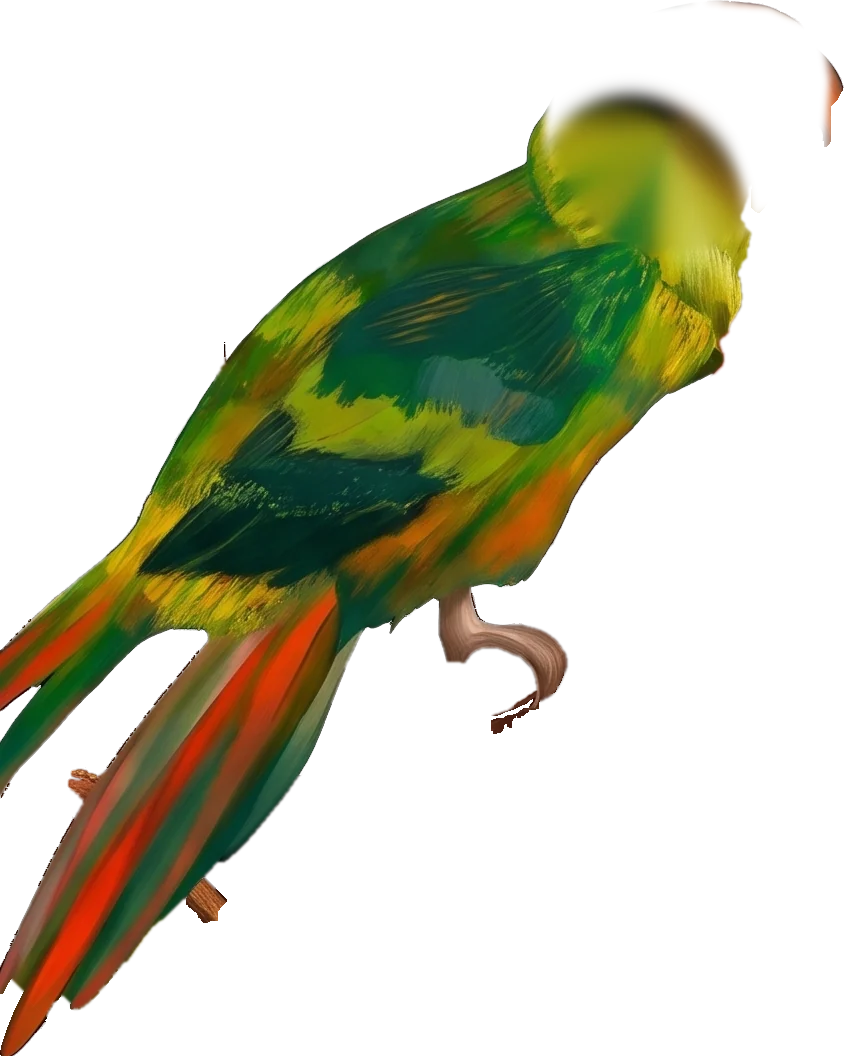
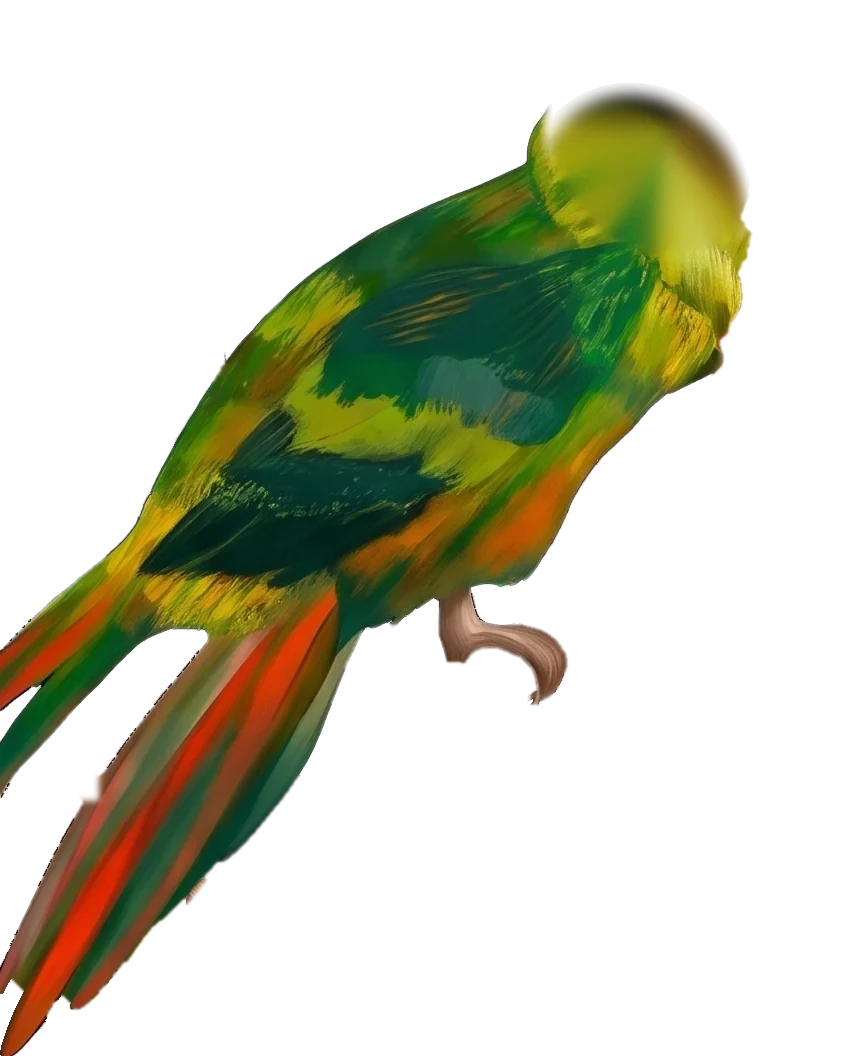
refactor: adjust opening scene layout coordinates and add parrot rigging script

diff --git a/scripts/parrot-rig.py b/scripts/parrot-rig.py
@@ -1,0 +1,77 @@
+"""
+Làm sạch rig con vẹt của màn mở thiệp (public/opening/parrot-head.webp,
+parrot-body.webp) theo layer 7 của bản Canva (scripts/intro-src/7.png).
+
+Rig gốc cắt từ bức tranh cũ nên có lỗi: mảnh đầu bị cắt thẳng ở mép phải (mất
+chóp mỏ), thân còn dính một mảnh mỏ thừa (lộ ra thành "mỏ đôi" khi đầu quay)
+và vài mẩu cành đậu bay theo chim. Script đọc bản gốc từ git (commit d492433)
+nên chạy lại bao nhiêu lần cũng ra cùng kết quả:
+
+    python3 scripts/parrot-rig.py
+
+Layer 7 khớp với hệ toạ độ của rig ở tỉ lệ 2.22, gốc (-189, 3977) — đo bằng cách
+so màu, sai số trung bình ~8/255.
+"""
+import io
+import subprocess
+from pathlib import Path
+from PIL import Image, ImageChops, ImageDraw, ImageFilter
+
+ROOT = Path(__file__).resolve().parent.parent
+OUT = ROOT / "public/opening"
+ORIGIN_COMMIT = "d492433"
+
+SCALE, OX, OY = 2.22, -189, 3977
+HEAD = (528, 0, 316, 281)  # x, y, w, h trong hệ toạ độ thân — khớp bird.head.rect
+
+
+def original(name):
+    data = subprocess.run(
+        ["git", "show", f"{ORIGIN_COMMIT}:public/opening/{name}.webp"],
+        cwd=ROOT, capture_output=True, check=True,
+    ).stdout
+    return Image.open(io.BytesIO(data)).convert("RGBA")
+
+
+def main():
+    body = original("parrot-body")
+    old_head = original("parrot-head")
+    layer = Image.open(ROOT / "scripts/intro-src/7.png").convert("RGBA")
+    # Layer 7 kéo về hệ toạ độ của rig.
+    ref = layer.transform(body.size, Image.AFFINE, (SCALE, 0, OX, 0, SCALE, OY), resample=Image.BICUBIC)
+
+    # Đầu: lấy nguyên điểm ảnh của layer 7 (mỏ đủ chóp). Mép cổ vẫn mờ dần theo
+    # mặt nạ của đầu cũ để quay đầu không lộ đường cắt; riêng vùng mỏ giữ trọn.
+    hx, hy, hw, hh = HEAD
+    mask = old_head.getchannel("A")
+    beak = Image.new("L", (hw, hh), 0)
+    ImageDraw.Draw(beak).rectangle((780 - hx, 0, hw, 190), fill=255)
+    mask = ImageChops.lighter(mask, beak.filter(ImageFilter.GaussianBlur(6)))
+    head = ref.crop((hx, hy, hx + hw, hy + hh))
+    head.putalpha(ImageChops.multiply(head.getchannel("A"), mask))
+    head.save(OUT / "parrot-head.webp", quality=90, method=6)
+
+    # Thân: chỉ giữ chỗ layer 7 cũng có (bỏ mẩu cành đậu); chỗ layer 7 bị mép
+    # khung cắt (đuôi bên trái, dưới) thì tin thân cũ.
+    keep = ref.getchannel("A").filter(ImageFilter.MaxFilter(7))
+    clipped = Image.new("L", body.size, 255)
+    ImageDraw.Draw(clipped).rectangle((86, 0, body.width, 911), fill=0)
+    keep = ImageChops.lighter(keep, clipped)
+    # Mảnh mỏ thừa ở góc trên phải — đầu che chỗ này.
+    ghost = Image.new("L", body.size, 255)
+    ImageDraw.Draw(ghost).rectangle((775, 0, body.width, 170), fill=0)
+    # Mẩu cành dính sát mép đuôi trái.
+    ImageDraw.Draw(ghost).rectangle((55, 755, 98, 800), fill=0)
+    ghost = ghost.filter(ImageFilter.GaussianBlur(3))
+    alpha = ImageChops.multiply(ImageChops.multiply(body.getchannel("A"), keep), ghost)
+
+    # Chỉ giữ mảng liền chính của con chim, bỏ mọi mảnh rời.
+    solid = alpha.point(lambda v: 255 if v > 24 else 0)
+    ImageDraw.floodfill(solid, (400, 400), 128)
+    main_part = solid.point(lambda v: 255 if v == 128 else 0).filter(ImageFilter.MaxFilter(5))
+    body.putalpha(ImageChops.multiply(alpha, main_part))
+    body.save(OUT / "parrot-body.webp", quality=90, method=6)
+
+
+if __name__ == "__main__":
+    main()

diff --git a/scripts/intro-layers.py b/scripts/intro-layers.py
@@ -28,10 +28,10 @@ SCENE = ROOT / "content/opening-scene.json"
 # Bản thiết kế Canva 1080×1920, file xuất 3375×6000.
 DESIGN_W = 1080
 EXPORT_W = 3375
-# Artboard của cảnh rộng 1536; khung 9:16 của thiết kế nằm cách đỉnh 10.7
-# (artboard cao 2752, khung 9:16 rộng 1536 cao 2730.7).
+# Artboard của cảnh rộng 1536 và cao đúng khung 9:16 của thiết kế (2731), để
+# tranh phủ kín màn — artboard cao hơn tranh là lộ một dải nền trơn ở mép.
 WORLD_W = 1536
-WORLD_Y = 10.7
+WORLD_Y = 0
 K = WORLD_W / EXPORT_W
 
 # Thứ tự từ dưới lên đúng như Canva. Tờ giấy (z 300) nằm giữa: các layer dưới
@@ -59,6 +59,15 @@ def world(v, offset=0.0):
 
 def main():
     scene = json.loads(SCENE.read_text())
+    shift_y = WORLD_Y - scene.get("_worldY", 10.7)
+    scene["canvas"] = {"width": WORLD_W, "height": round(WORLD_W * 16 / 9)}
+    scene["_worldY"] = WORLD_Y
+    # Những toạ độ chỉnh tay theo artboard cũng dời theo.
+    scene["bird"]["origin"][1] = round(scene["bird"]["origin"][1] + shift_y, 1)
+    for leaf in scene["leaves"]:
+        leaf["from"][1] = round(leaf["from"][1] + shift_y, 1)
+    for g in scene["groups"].values():
+        g["pivot"][1] = round(g["pivot"][1] + shift_y, 1)
     items = []
     for src, name, group, z in LAYERS:
         im = Image.open(SRC / f"{src}.png").convert("RGBA")
